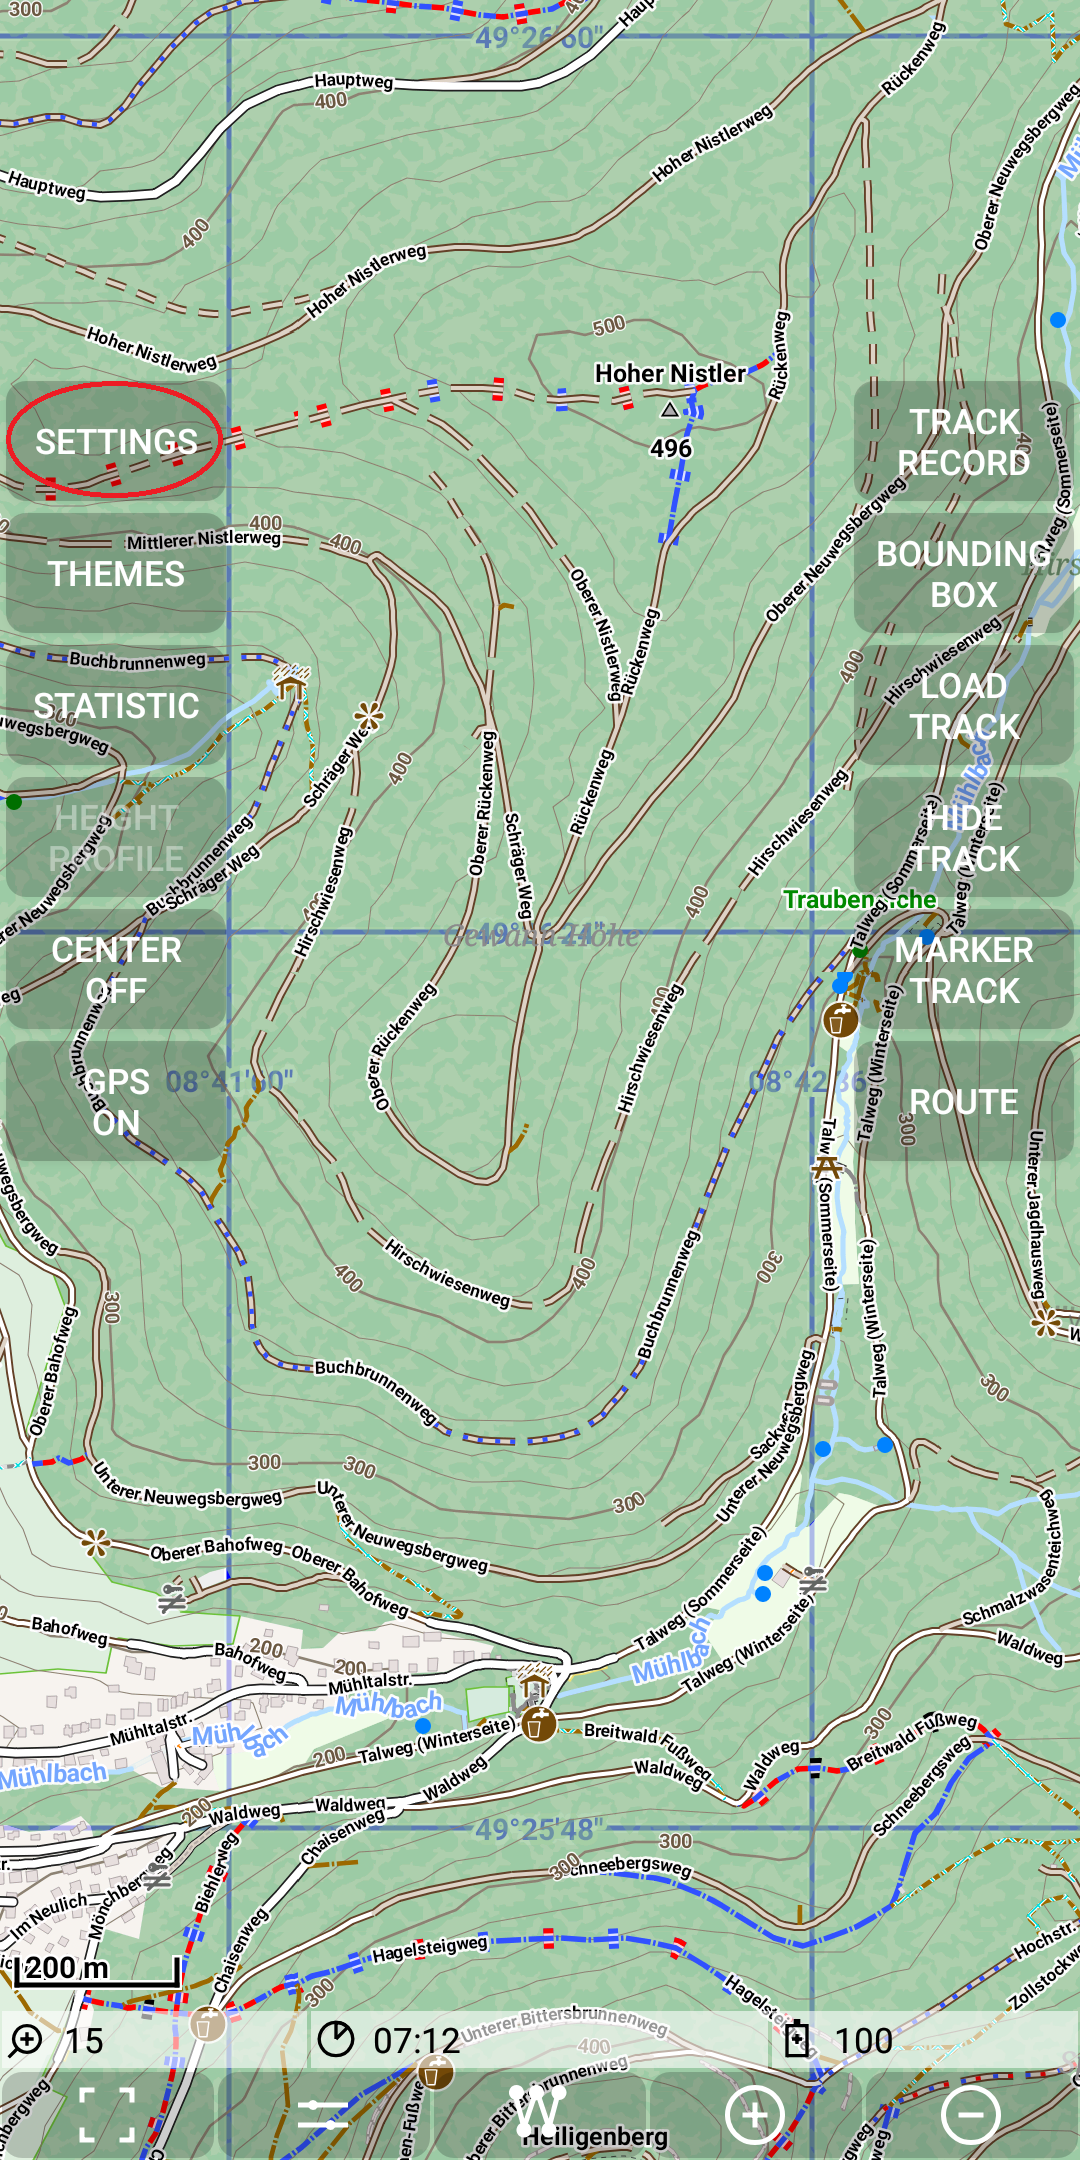
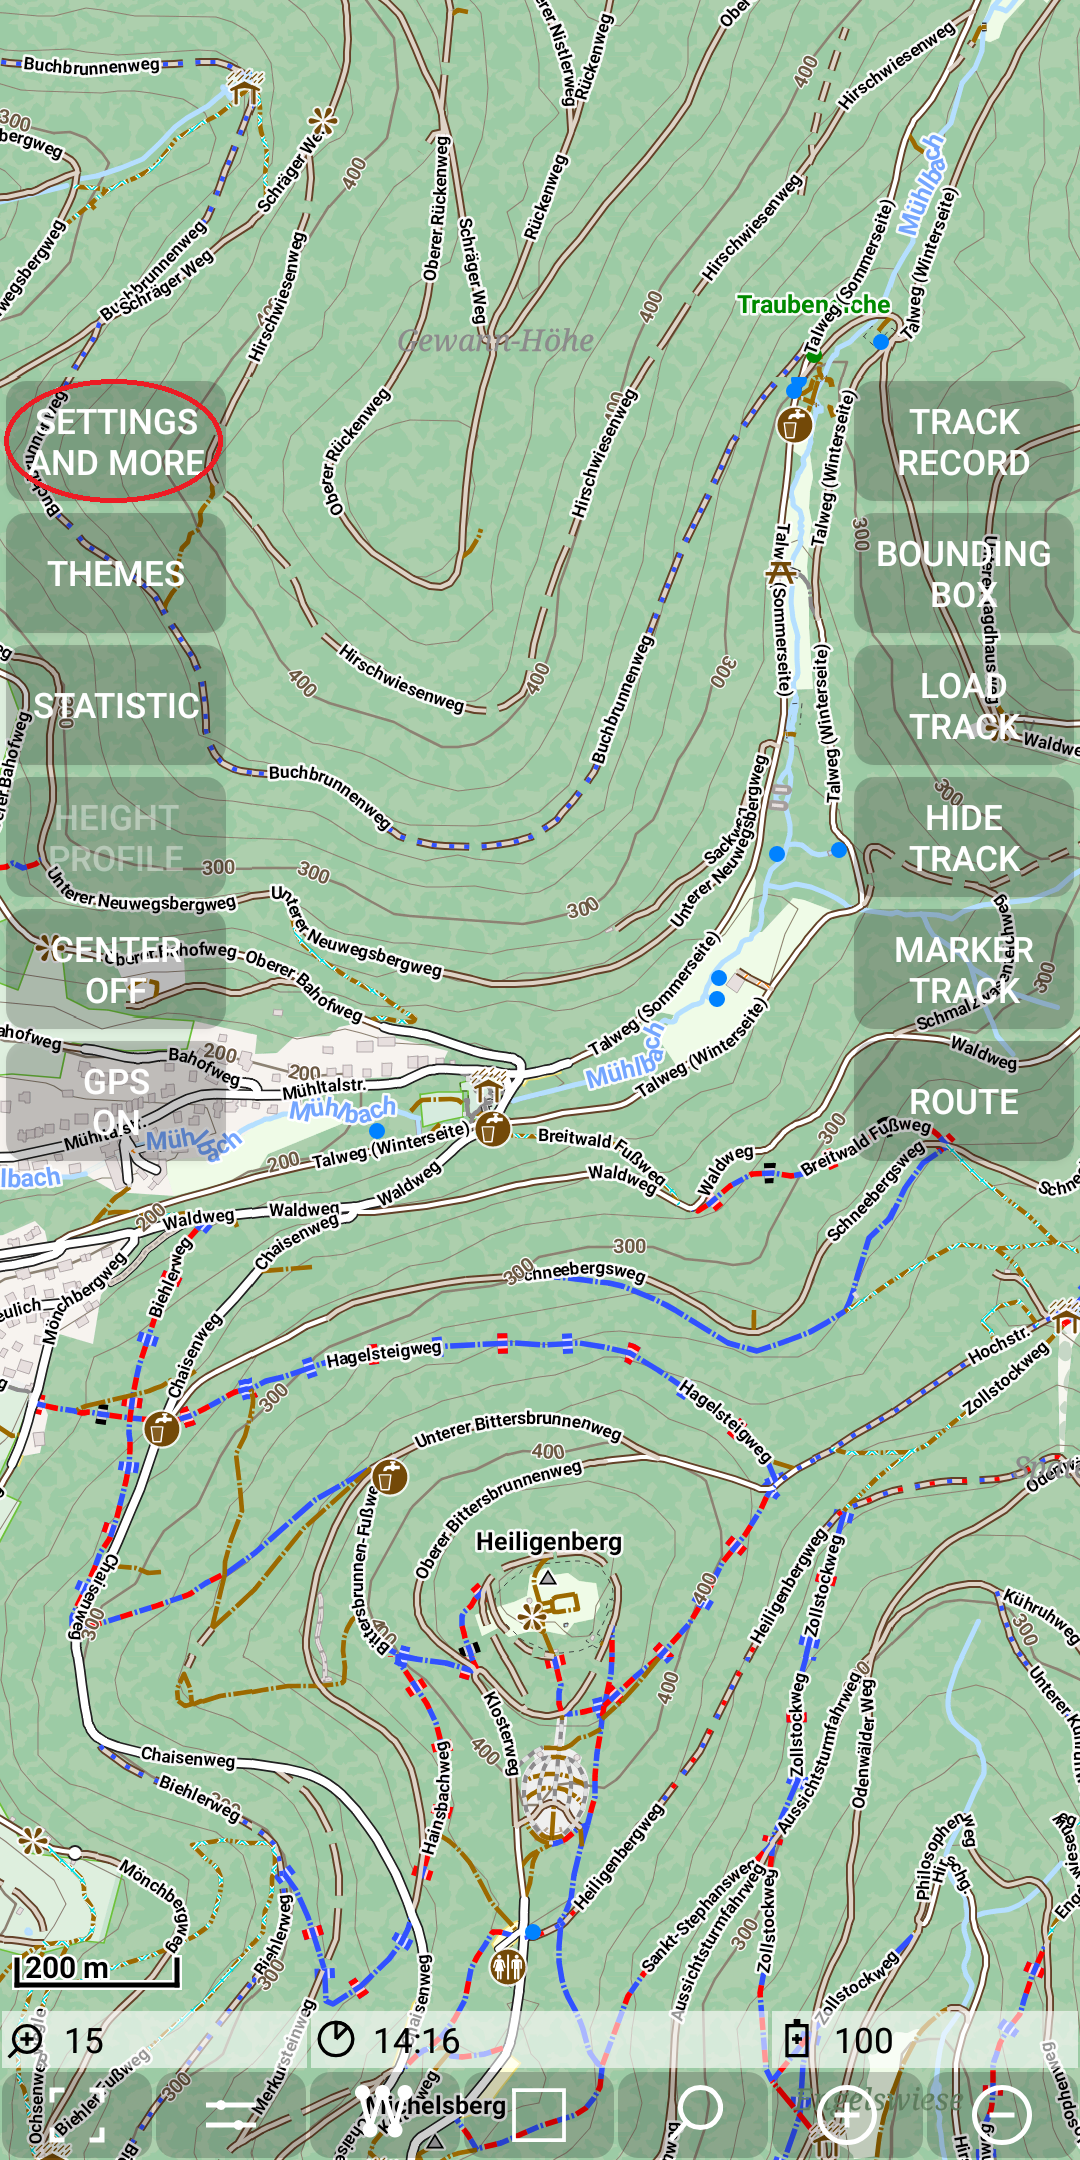
docware

diff --git a/mgmap/src/main/java/mg/mapviewer/features/routing/MSRoutingHint.java b/mgmap/src/main/java/mg/mapviewer/features/routing/MSRoutingHint.java
@@ -20,6 +20,7 @@ import mg.mapviewer.util.PointModelUtil;
 public class MSRoutingHint extends MGMicroService {
 
     private static final int THRESHOLD_FAR = 200;
+    private static final int THRESHOLD_MEDIUM = 40;
     private static final int THRESHOLD_KURS = 100;
 
     private boolean running = false;
@@ -67,18 +68,10 @@ public class MSRoutingHint extends MGMicroService {
                 Log.i(MGMapApplication.LABEL, NameUtil.context()+" lastPos="+lastPos+" lastGps="+lastGps+" secondLastGpsPoint="+getApplication().lastPositionsObservable.secondLastGpsPoint);
                 if ((lastGps != null) && ((lastPos == null) || (PointModelUtil.compareTo(lastGps,lastPos)!=0))) { // have a new position to handle
                     TrackLogRefApproach bestMatch = msRouting.routeTrackLog.getBestDistance(lastGps, THRESHOLD_FAR);
-                    double speed = 4; // in m/s - estimate, if no info
-                    PointModel secondLastGps = getApplication().lastPositionsObservable.secondLastGpsPoint;
-
-                    if ((secondLastGps != null) && ( lastGps.getTimestamp() - secondLastGps.getTimestamp() <10000)){ // less than 10s time diff
-                        speed = PointModelUtil.distance(lastGps,secondLastGps)*1000 /(lastGps.getTimestamp() - secondLastGps.getTimestamp());
-                    }
-                    double distSinceLastPos = (System.currentTimeMillis() - lastGps.getTimestamp()) * speed / 1000;
-
 
                     if ((bestMatch != null)){
-                        if (bestMatch.getDistance() < PointModelUtil.getCloseThreshold()){
-                            checkHints(bestMatch, distSinceLastPos);
+                        if (bestMatch.getDistance() < THRESHOLD_MEDIUM){
+                            checkHints(bestMatch);
                             mediumAwayCnt = 0;
                         } else {
                             // not really close
@@ -140,10 +133,10 @@ public class MSRoutingHint extends MGMicroService {
     }
 
 
-    private void checkHints(TrackLogRefApproach bestMatch, double distSinceLastPos){
+    private void checkHints(TrackLogRefApproach bestMatch){
         int abstand = (int)bestMatch.getDistance();
         String text = "";
-        Log.i(MGMapApplication.LABEL, NameUtil.context()+"SegIdx="+bestMatch.getSegmentIdx()+" epIdx="+bestMatch.getEndPointIndex()+" HINT Abstand="+abstand+" distSinceLastPos="+distSinceLastPos);
+        Log.i(MGMapApplication.LABEL, NameUtil.context()+"SegIdx="+bestMatch.getSegmentIdx()+" epIdx="+bestMatch.getEndPointIndex()+" HINT Abstand="+abstand);
 
         PointModel lastPm = bestMatch.getApproachPoint();
         double routeDistance = 0;

diff --git a/docs/Features/MainTrackFeatures/Routing/hints.md b/docs/Features/MainTrackFeatures/Routing/hints.md
@@ -1,0 +1,50 @@
+## Main Track Feature: routing hints
+
+This feature is an addon to the basic [routing feature](./routing.md).
+
+You can toggle this feature on and off with a long press on the marker track quick control. As a result of activating this
+feature the quick control icon changes in a way, that the original icon will be smaller and beside it there is a small icon of a
+loudspeaker. This toggle action works with marker track edit mode switched on and off.
+
+Currently this feature works only in german language.
+All direction information will be given with values based on a clock design.
+So "12Uhr" means straight ahead, "3Uhr" means turn right  and "9Uhr" means turn left.
+
+The following example illustrates this behaviour: Imagine, you are moving with track recording switched on (red line)
+along a given route (purple line). Now switch on the routing hints:
+
+<img src="./rh1.png" width="300" />&nbsp;
+<img src="./rh2.png" width="300" />&nbsp;
+
+Go on moving. Then you get the voice message "In 97 Meter 9Uhr"
+
+<img src="./rh3.png" width="300" />&nbsp;
+
+If you come closer to the crossroad, you'll get the message "Gleich 9Uhr  Kurs 11 Uhr"
+
+<img src="./rh4.png" width="300" />&nbsp;
+
+After this example I'll try to give some general rules for these voice messages:
+- Routing hints will be given based on a new location information (new GPS point).
+- A first routing hint will be given, sa soon as the remaining distance to the routing point gets less than 100m. It starts with "In \<nn> Metern ..."
+- A second routing hint will be given as soon as the distance to the routing point becomes less than 40m. This advise is started with
+ "Gleich ..." or "Danach ...".
+- A routing hint may give additional information "Kurs \<nn>Uhr", which means: calculate a point along the route that is 100m ahead the last measured point.
+ calculate the direction to this 100m away point and based on this the clock direction. The idea behind this is to give a rough information, in
+ which direction you'll have to move.
+- A hint will only be given vor points in the graph with more than two neighbours. (There is some routing hint preparation as part of the
+ route calculation process).
+- There will be no routing hint, if the route is straight ahead and other options are not too close to this.
+- If there are other options, which are rather close to the planed route, then the hint may be extended by the advise
+ "Nicht links \<nn>Uhr" or "Nicht rechts \<nn>Uhr".
+- If there is a second routing point within the next 100m, then the advise information for next two routing points is given.
+
+Additional rules
+- If the measured distance to the route is above the THRESHOLD_FAR (200m), then you get once the message
+ "Großer Abstand mehr als <THRESHOLD_FAR> Meter". New hints will only be given, if you have a new location with less than
+ THRESHOLD_MEDIUM (40m) distance to the route.
+- If the measured distance to the route is above the THRESHOLD_MEDIUM (40m), then you get up to three messages:
+  - "Achtung Abstand \<nn> Meter"
+  - "Achtung Achtung Abstand \<nn> Meter"
+  - "Achtung Achtung Achtung Abstand \<nn> Meter"  
+  If there are further gps points with a distance more the THRESHOLD_MEDIUM, you don't get any further hint

diff --git a/docs/index.md b/docs/index.md
@@ -27,6 +27,7 @@ Each feature contains a link to the corresponding detailed feature description.
 - [Marker Track](./Features/MainTrackFeatures/MarkerTrack/markertrack.md) create a track (marker track) by tapping some points, including manipulations like moving points, 
   insert and delete points. Such a marker track can also be imported/exported. 
 - [Basic Routing](./Features/MainTrackFeatures/Routing/routing.md) basic route calculation (shortest path) based on a marker track.
+- [Routing Hints](./Features/MainTrackFeatures/Routing/hints.md) basic voice output based on the route calculation.
 - [Dashboard](./Features/MainTrackFeatures/Dashboard/dashboard.md) visualization of the most important information of the recording, the selected and the route track log.
 
 ### Further features
@@ -55,7 +56,6 @@ Each feature contains a link to the corresponding detailed feature description.
 [Here](./History.md) you can find some information, how this app was originated.
 
 
-Remark: Since the geocoding feature was added later, most feature
-documentation doesn't contain the quick control to start geocoding
-search.
+Remark: Some documentation doesn't show the search or the bounding box quick controld,
+since the both features ware added later. All in this context relevant information does include it.
 

diff --git a/docs/Features/DeveloperFeatures/WayDetails/waydetails.md b/docs/Features/DeveloperFeatures/WayDetails/waydetails.md
@@ -7,12 +7,11 @@ routing process cause the problem? To answer this question it is necessary to in
 graph data. So how to investigate a special situation, where routing doesn't provide the desired result.
 For this purpose it is possible to visualize the way raw data from the tiles.
 
-This is done with <span style="color:gray">*Menu | Setting*</span>, check the box "way details" and
-the go back to the map view as shown here:
+This is done with <span style="color:gray">*Menu | Setting and more | Further Settings*</span>, an then check the switch "way details".
 
-<img src="./wd1.png" width="270" />&nbsp;<img src="./wd2.png" width="270" />&nbsp;<img src="./wd3.png" width="270" />&nbsp;
+<img src="./wd1.png" width="200" />&nbsp;<img src="./wd2.png" width="200" />&nbsp;<img src="./wd3.png" width="200" />&nbsp;
 
-Now the *way details* mode is enabled: If you tap to the marked position, you get following result:
+When you go back to the map there is the *way details* mode enabled: If you tap to the marked position, you get following result:
 
 <img src="./wd4.png" width="400" />&nbsp;
 <img src="./wd5.png" width="400" />&nbsp;

diff --git a/docs/Features/FurtherFeatures/GDrive/gdrive.md b/docs/Features/FurtherFeatures/GDrive/gdrive.md
@@ -16,9 +16,10 @@ The configuration file (./MGMapViewer/config/gdrive.cfg) might look like this:
 <img src="./config.png" width="300" />
 
 The entry with the key **GDRIVE_TOP_DIR** defines the top directory on your Google Drive account that is used to store the data from 
-this app. It has to be a simple foldername (no subfolders). 
+this app. It has to be a simple foldername (no subfolders). The default for this name is "MGMapViewer".
  
-The second configuration parameter **ZIP_PW** defines the password for zip encryption/decryption process. 
+The second configuration parameter **ZIP_PW** defines the password for zip encryption/decryption process.
+The default value for this passwort is "geheimXgeheim!"
 
 When you trigger the synchronisation for the first time you have to allow this app the access to your Google Drive.
 (Remark: Unfortunately there is no option to get access ONLY to the configured top level directory.)

diff --git a/docs/Features/MainTrackFeatures/Routing/routing.md b/docs/Features/MainTrackFeatures/Routing/routing.md
@@ -4,6 +4,8 @@ This feature provides a basic route calculation (shortest path)
 based on a [marker track](../MarkerTrack/markertrack.md). 
 The route calculation is using an simple [A\*](https://de.wikipedia.org/wiki/A*-Algorithmus) algorithm.
 
+There is also a feature [routing hints](./hints.md), which is based on this routing feature.
+
 For the explanations around the marker tracks we switched off routing. Now we have to make sure that is is switched on again
 with with  <span style="color:gray">*Menu | Route | Route on*</span>.
 
